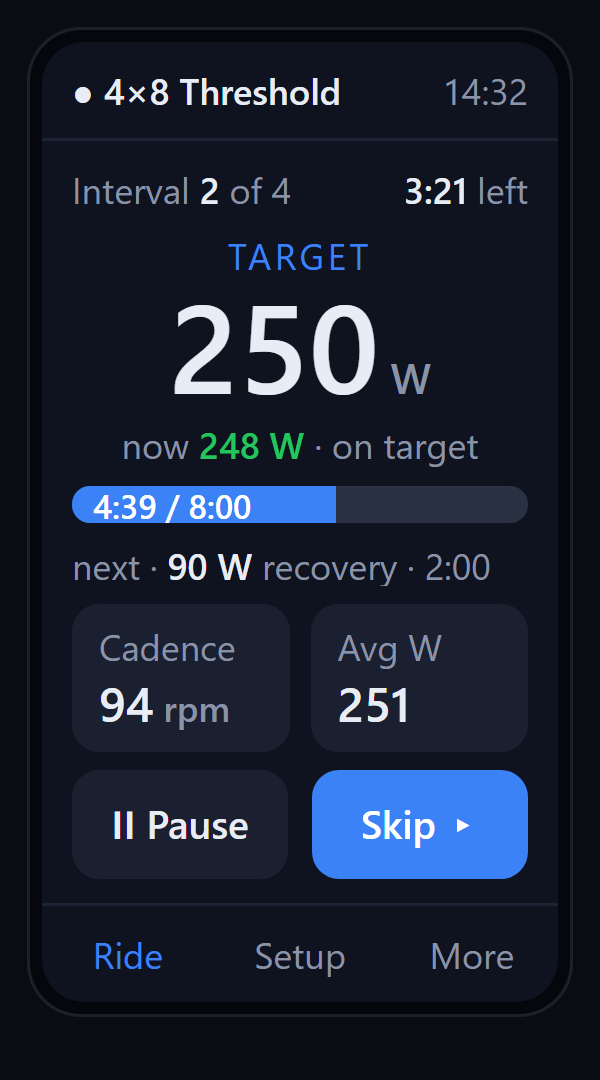
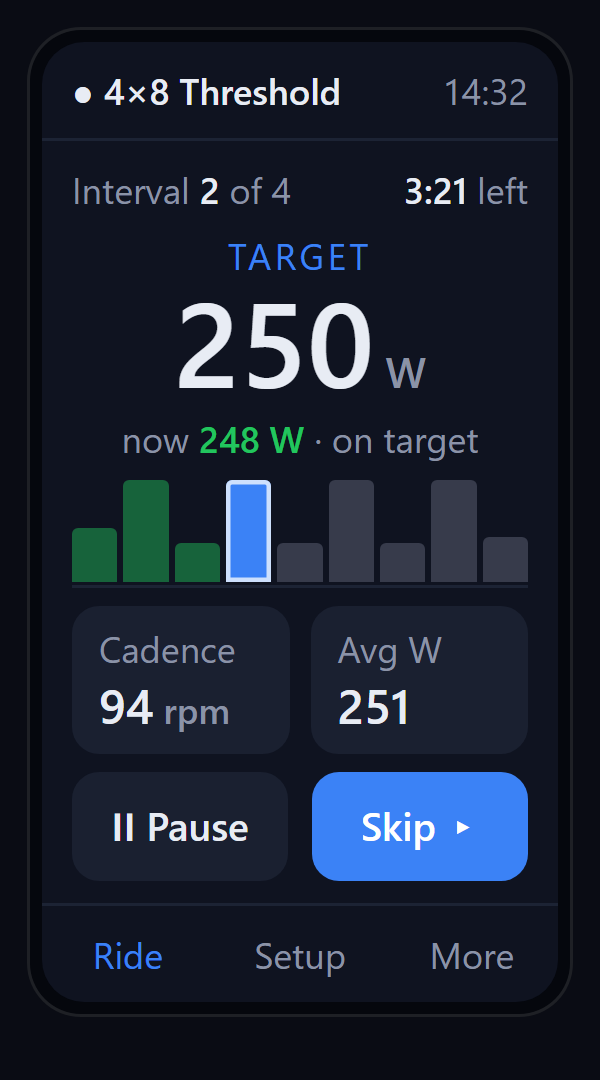
design(lcd): workout screen — add upcoming-interval profile chart

diff --git a/design/sb20-lcd-workout-v1.html b/design/sb20-lcd-workout-v1.html
@@ -19,13 +19,15 @@ body{margin:0;background:#0a0c14;color:var(--fg);font-family:system-ui,-apple-sy
 .seg b{color:var(--fg);font-weight:500}
 .tgt{text-align:center}
 .tgt .lab{font-size:12px;color:var(--accent);letter-spacing:.1em}
-.tgt .big{font-size:42px;font-weight:500;line-height:1}
+.tgt .big{font-size:40px;font-weight:500;line-height:1}
 .tgt .u{font-size:14px;color:var(--mut)}
 .now{text-align:center;font-size:12px;margin-top:-1px}
 .now b{font-weight:500}
-.prog{position:relative;height:13px;border-radius:6px;background:var(--chip2);overflow:hidden}
-.prog i{position:absolute;top:0;bottom:0;left:0;background:var(--accent)}
-.prog span{position:absolute;left:7px;top:0;line-height:13px;font-size:11px;color:#fff;font-weight:500}
+.wo{display:flex;align-items:flex-end;gap:2px;height:38px;border-bottom:1px solid var(--line);padding-bottom:1px}
+.wo div{flex:1;min-width:0;border-radius:2px 2px 0 0}
+.wo .done{background:rgba(34,197,94,.45)}
+.wo .cur{background:var(--accent);box-shadow:inset 0 0 0 1.5px rgba(255,255,255,.75)}
+.wo .up{background:rgba(139,147,167,.32)}
 .next{font-size:12px;color:var(--mut);white-space:nowrap;overflow:hidden;text-overflow:ellipsis}
 .next b{color:var(--fg);font-weight:500}
 .chips{display:flex;gap:7px}
@@ -50,9 +52,17 @@ body{margin:0;background:#0a0c14;color:var(--fg);font-family:system-ui,-apple-sy
 <div class="tgt"><div class="lab">TARGET</div><div class="big">250<span class="u"> W</span></div></div>
 <div class="now"><span class="k">now</span> <b style="color:var(--ok)">248 W</b> <span class="k">&middot; on target</span></div>
 
-<div class="prog"><i style="width:58%"></i><span>4:39 / 8:00</span></div>
-
-<div class="next">next &middot; <b>90 W</b> recovery &middot; 2:00</div>
+<div class="wo">
+<div class="done" style="height:18px"></div>
+<div class="done" style="height:34px"></div>
+<div class="done" style="height:13px"></div>
+<div class="cur" style="height:34px"></div>
+<div class="up" style="height:13px"></div>
+<div class="up" style="height:34px"></div>
+<div class="up" style="height:13px"></div>
+<div class="up" style="height:34px"></div>
+<div class="up" style="height:15px"></div>
+</div>
 
 <div class="chips">
 <div class="chip"><div class="k">Cadence</div><div class="v">94<span class="k"> rpm</span></div></div>
